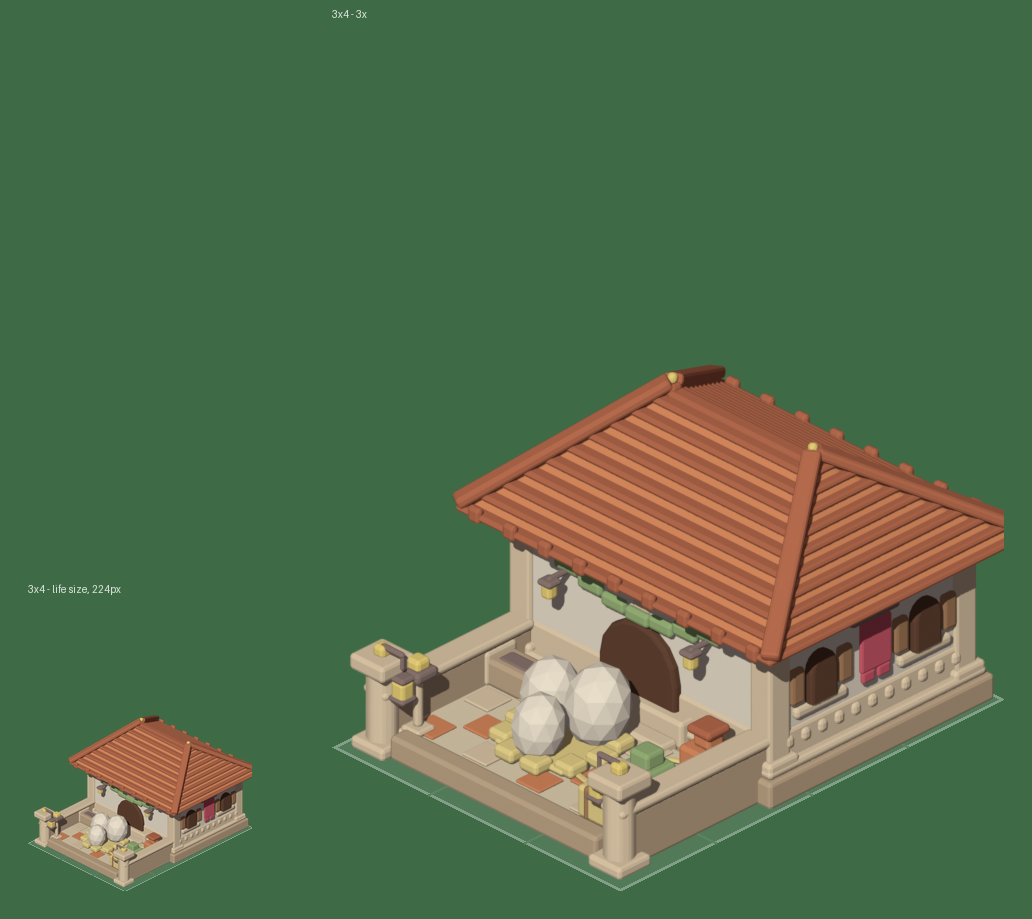
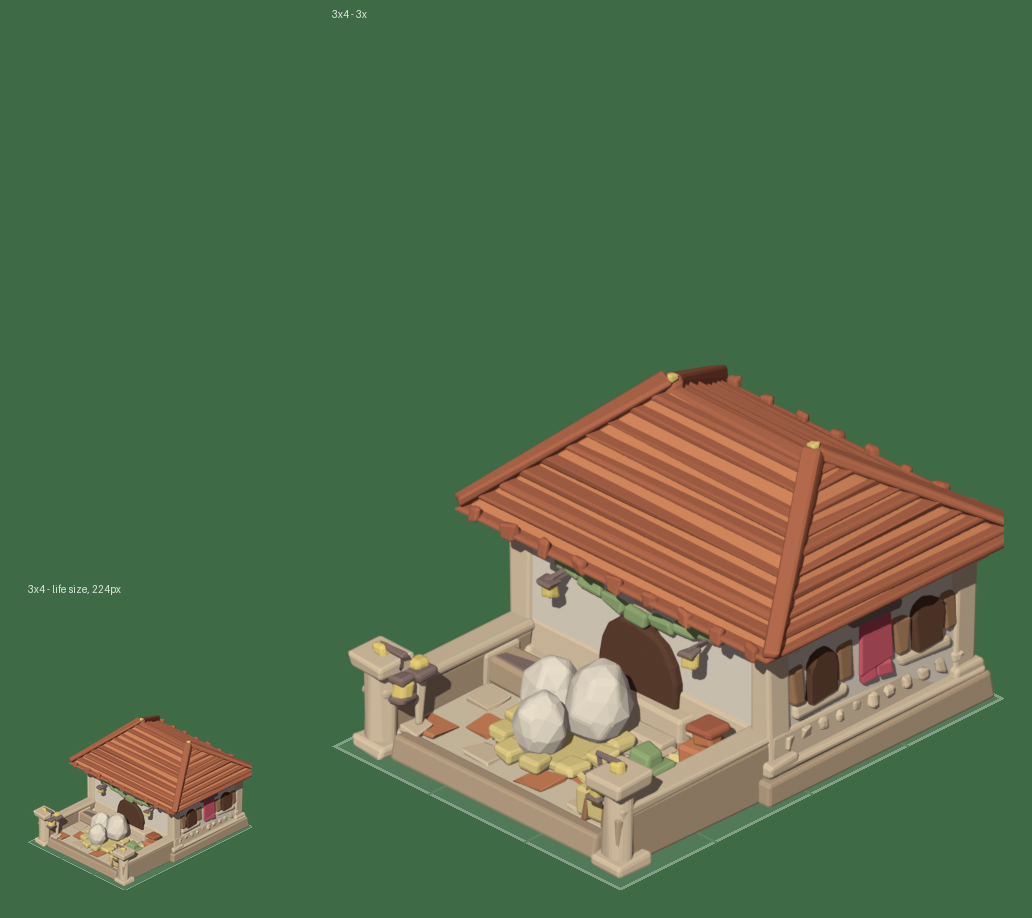
Push every corner off true, so the facets stop being machine-cut
The bevel gave every edge an even strip, and even strips are the tell: the
buildings read as manufactured standing next to monsters whose surfaces are
covered in irregular planes. roughen() nudges each vertex slightly out of
square before the bevel runs, so the wall faces go very faintly non-planar and
the light breaks across them the way it breaks across a monster — and the bevel
strips inherit the irregularity, because the edges they follow no longer are
straight.

Order matters and is stated where it is easy to get backwards: roughen first,
bevel second. Bevel first and the strips come out perfect and the jitter merely
wobbles them.

The offset is seeded from world POSITION, not from a counter, and the position
is rounded before hashing. That is not tidiness — it is the whole thing working
at all. Two vertices sitting at the same point in space have to be given the
same offset or the wall and the pilaster touching it tear apart along their
shared edge, and without the rounding, float noise reopens exactly those seams
at random.

Two things stay protected. Vertices on the ground are free horizontally and
pinned vertically, because a building hovering a millimetre over its plinth is
visible and one sunk into it is worse. And the amount stays under a thirtieth of
a tile: this is meant to be felt rather than seen, and the footprint contract is
not up for negotiation. Verified with --guides — the base still touches the
left, right and bottom edges exactly.

diff --git a/tool/blender/render_building.py b/tool/blender/render_building.py
@@ -924,6 +924,53 @@ def frame(w, h, px_per_tile, headroom):
     cam.data.clip_end = 200
 
 
+def _hash01(a, b, c):
+    """A deterministic pseudo-random in [0,1) from three numbers.
+
+    Deterministic matters twice over: a render that differs between runs cannot
+    be compared against the one before it, and — more importantly — two
+    vertices that sit at the SAME world position must be given the SAME offset,
+    or the wall and the pilaster touching it tear apart along their shared edge.
+    Seeding from position rather than from a counter is what guarantees that.
+    """
+    s = math.sin(a * 127.1 + b * 311.7 + c * 74.7) * 43758.5453
+    return s - math.floor(s)
+
+
+def roughen(amount=0.024):
+    """Nudge every vertex off true, before the bevel runs over it.
+
+    The bevel alone gave every edge an even, machine-cut strip — the buildings
+    read as manufactured next to monsters whose surfaces are covered in
+    irregular planes. Pushing the corners slightly out of square makes the wall
+    faces very faintly non-planar, so the light breaks across them the way it
+    breaks across a monster, and the bevel strips stop being uniform because the
+    edges they follow no longer are.
+
+    Two things are protected. Vertices ON the ground stay on the ground —
+    horizontally free, vertically pinned — because a building floating a
+    millimetre above its plinth is visible and a building sunk into it is worse.
+    And the amount stays under a thirtieth of a tile: this is meant to be felt
+    and not seen, and the footprint contract is not negotiable.
+    """
+    for ob in bpy.data.objects:
+        if ob.type != 'MESH' or ob.name == 'guide':
+            continue
+        mw = ob.matrix_world
+        inv = mw.inverted()
+        for v in ob.data.vertices:
+            w = mw @ v.co
+            # Round before hashing so coincident vertices agree despite float
+            # noise; without this the seams open up again at random.
+            key = (round(w.x, 3), round(w.y, 3), round(w.z, 3))
+            dx = (_hash01(*key) - 0.5) * 2 * amount
+            dy = (_hash01(key[1], key[2], key[0]) - 0.5) * 2 * amount
+            dz = (_hash01(key[2], key[0], key[1]) - 0.5) * 2 * amount
+            if w.z < 0.01:
+                dz = 0.0
+            v.co = inv @ Vector((w.x + dx, w.y + dy, max(0.0, w.z + dz)))
+
+
 def bevel_everything():
     """Cut every edge back a little, on every mesh in the scene.
 
@@ -988,6 +1035,10 @@ def main():
     build(w, h)
     if args.guides:
         guide_plane(w, h)
+    # Order matters: roughen first so the bevel follows edges that are already
+    # off true. Bevel first and the strips are perfect and the jitter only
+    # wobbles them.
+    roughen()
     bevel_everything()
     light()
     frame(w, h, args.scale, args.headroom)
